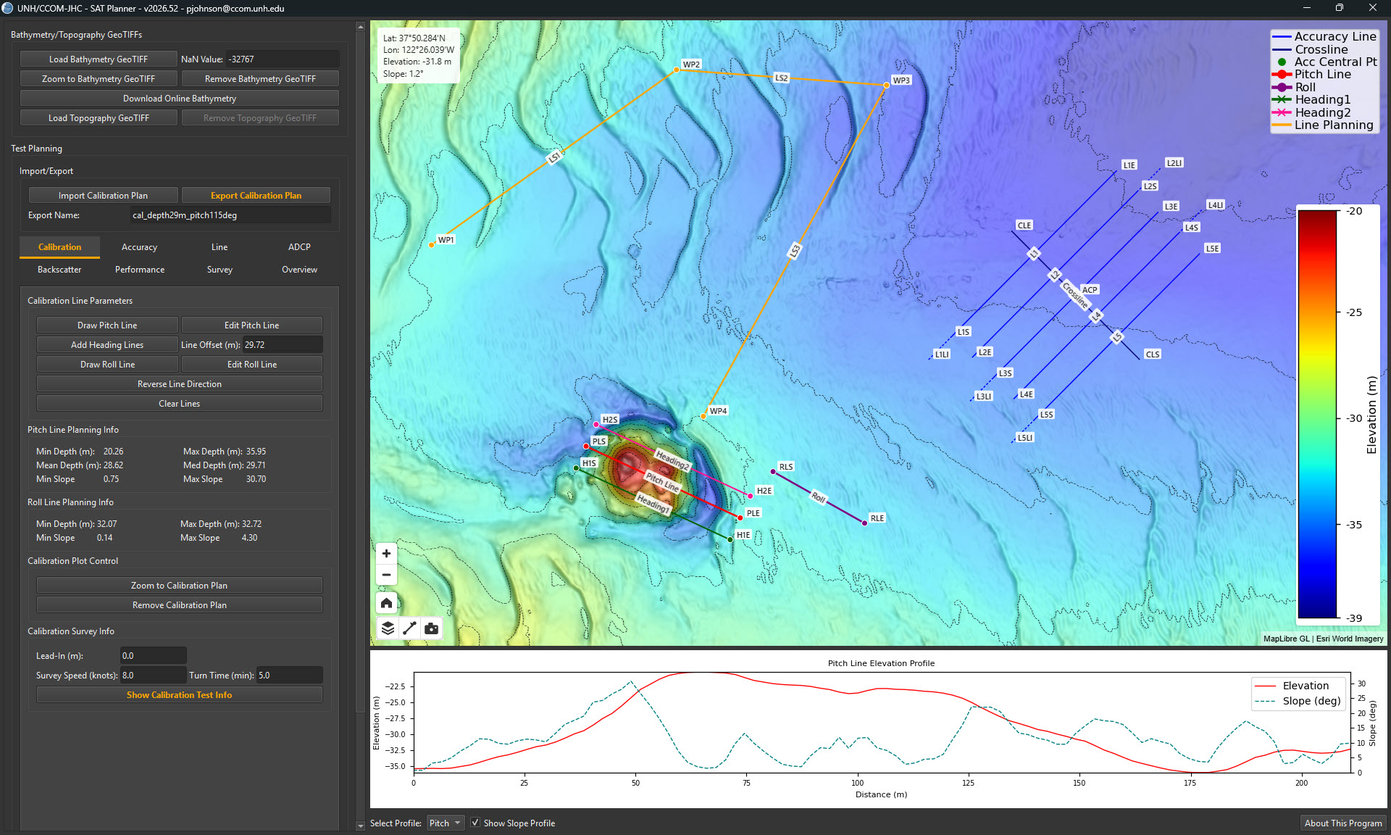
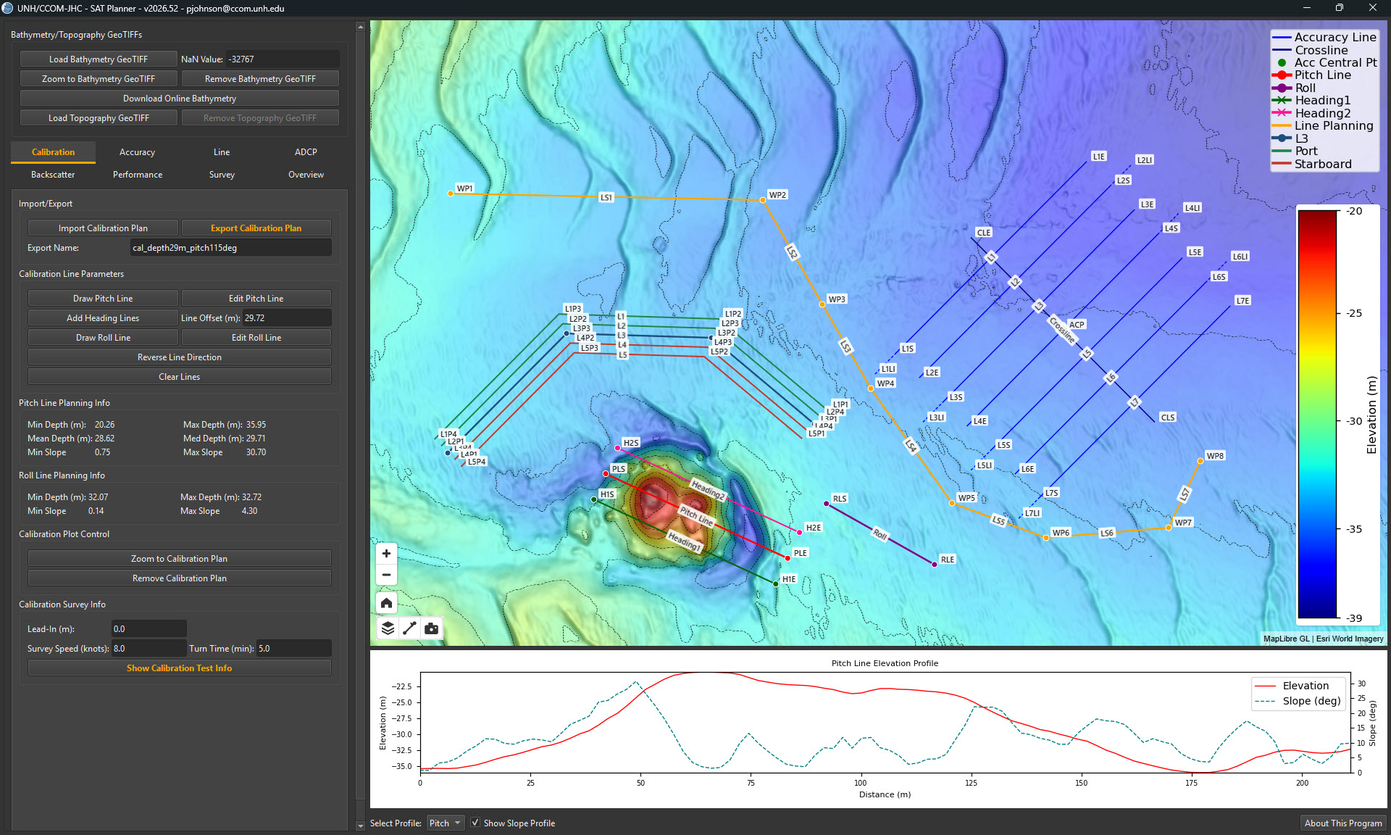
Updated left column layout to be more intuitive.

diff --git a/sat_planner/app_core.py b/sat_planner/app_core.py
@@ -1640,9 +1640,12 @@ class SurveyPlanApp(BasemapMixin, GeoTIFFMixin, PlottingMixin, ReferenceMixin, S
 
         param_layout.addWidget(geotiff_groupbox)
 
-        # --- Test Planning GroupBox (contains tabs) ---
-        test_planning_groupbox = QGroupBox("Test Planning")
-        self._test_planning_layout = QVBoxLayout(test_planning_groupbox)
+        # Tab rows and the open page sit directly in the left column.
+        test_planning = QWidget()
+        test_planning.setSizePolicy(QSizePolicy.Policy.Expanding, QSizePolicy.Policy.Preferred)
+        self._test_planning_layout = QVBoxLayout(test_planning)
+        self._test_planning_layout.setContentsMargins(0, 0, 0, 0)
+        self._test_planning_layout.setSpacing(3)
 
         self.param_notebook = QTabWidget()
 
@@ -1671,7 +1674,7 @@ class SurveyPlanApp(BasemapMixin, GeoTIFFMixin, PlottingMixin, ReferenceMixin, S
 
         self._test_planning_layout.addWidget(self.param_notebook)
         self._install_two_row_tabs()
-        param_layout.addWidget(test_planning_groupbox)
+        param_layout.addWidget(test_planning)
 
         self.param_scroll.setWidget(param_widget)
 
@@ -1680,7 +1683,7 @@ class SurveyPlanApp(BasemapMixin, GeoTIFFMixin, PlottingMixin, ReferenceMixin, S
 
         # --- Reference Planning Tab (was input_frame) ---
         self.input_frame = self.reference_frame  # For compatibility with rest of code
-        ref_layout = QGridLayout(self.input_frame)
+        ref_layout = self._begin_tab_grid(self.input_frame)
         ref_layout.setColumnStretch(0, 1)  # Labels
         ref_layout.setColumnStretch(1, 2)  # Entries
         ref_layout.setSpacing(3)  # Reduce spacing between groupboxes
@@ -1852,7 +1855,7 @@ class SurveyPlanApp(BasemapMixin, GeoTIFFMixin, PlottingMixin, ReferenceMixin, S
         ref_layout.setRowStretch(row, 1)
 
         # --- Calibration Planning Tab ---
-        cal_layout = QGridLayout(self.calibration_frame)
+        cal_layout = self._begin_tab_grid(self.calibration_frame)
         cal_layout.setColumnStretch(0, 1)
         cal_layout.setColumnStretch(1, 2)
         cal_layout.setSpacing(3)  # Reduce spacing between groupboxes
@@ -2073,7 +2076,7 @@ class SurveyPlanApp(BasemapMixin, GeoTIFFMixin, PlottingMixin, ReferenceMixin, S
         cal_layout.setRowStretch(cal_row, 1)
 
         # --- Line Planning Tab ---
-        line_layout = QGridLayout(self.line_planning_frame)
+        line_layout = self._begin_tab_grid(self.line_planning_frame)
         line_layout.setColumnStretch(0, 1)
         line_layout.setColumnStretch(1, 2)
 
@@ -2515,7 +2518,7 @@ class SurveyPlanApp(BasemapMixin, GeoTIFFMixin, PlottingMixin, ReferenceMixin, S
         backscatter_layout.addStretch(1)
 
         # --- Performance Tab ---
-        performance_layout = QGridLayout(self.performance_frame)
+        performance_layout = self._begin_tab_grid(self.performance_frame)
         performance_layout.setColumnStretch(0, 1)
         performance_layout.setColumnStretch(1, 2)
         performance_row = 0
@@ -2680,7 +2683,7 @@ class SurveyPlanApp(BasemapMixin, GeoTIFFMixin, PlottingMixin, ReferenceMixin, S
         performance_layout.setRowStretch(performance_row, 1)
 
         # --- ADCP Tab ---
-        adcp_layout = QGridLayout(self.adcp_frame)
+        adcp_layout = self._begin_tab_grid(self.adcp_frame)
         adcp_layout.setColumnStretch(0, 1)
         adcp_layout.setColumnStretch(1, 2)
         adcp_row = 0
@@ -2871,6 +2874,9 @@ class SurveyPlanApp(BasemapMixin, GeoTIFFMixin, PlottingMixin, ReferenceMixin, S
             self._param_tab_bars.append(tab_bar)
             self._param_tab_bar_indexes.append(mapping)
         self._test_planning_layout.insertWidget(0, header)
+        notebook_index = self._test_planning_layout.indexOf(notebook)
+        if notebook_index >= 0:
+            self._test_planning_layout.setStretch(notebook_index, 1)
         notebook.currentChanged.connect(self._sync_two_row_tabs)
         self._sync_two_row_tabs(notebook.currentIndex())
 

diff --git a/sat_planner/mixins/export_import_mixin.py b/sat_planner/mixins/export_import_mixin.py
@@ -538,8 +538,49 @@ class ExportImportMixin:
             self.shared_export_name_stack, overview_default
         )
 
-    def _install_shared_survey_io(self, parent_layout):
-        """Insert shared Import/Export controls above the tab widget."""
+    def _begin_tab_grid(self, frame):
+        """Put a grid page inside a vertical layout so Import/Export can sit on top."""
+        outer = QVBoxLayout(frame)
+        outer.setContentsMargins(9, 9, 9, 9)
+        outer.setSpacing(3)
+        content = QWidget(frame)
+        grid = QGridLayout(content)
+        grid.setContentsMargins(0, 0, 0, 0)
+        outer.addWidget(content, 1)
+        frame._sat_tab_outer = outer
+        return grid
+
+    def _tab_outer_layout(self, tab_index):
+        notebook = getattr(self, "param_notebook", None)
+        if notebook is None or tab_index is None or tab_index < 0:
+            return None
+        frame = notebook.widget(tab_index)
+        if frame is None:
+            return None
+        outer = getattr(frame, "_sat_tab_outer", None)
+        if isinstance(outer, QVBoxLayout):
+            return outer
+        layout = frame.layout()
+        if isinstance(layout, QVBoxLayout):
+            frame._sat_tab_outer = layout
+            return layout
+        return None
+
+    def _place_shared_survey_io(self, tab_index):
+        """Move the one Import/Export box to the top of the open tab."""
+        group = getattr(self, "shared_survey_io_groupbox", None)
+        outer = self._tab_outer_layout(tab_index)
+        if group is None or outer is None:
+            return
+        if outer.indexOf(group) == 0:
+            return
+        group.setParent(None)
+        outer.insertWidget(0, group)
+        group.show()
+
+    def _install_shared_survey_io(self, parent_layout=None):
+        """Create Import/Export controls and place them on the current tab."""
+        del parent_layout
         if not hasattr(self, "shared_import_btn"):
             self._create_shared_survey_io_widgets()
         if not hasattr(self, "shared_survey_io_groupbox"):
@@ -552,10 +593,8 @@ class ExportImportMixin:
             io_layout.setSpacing(3)
             io_layout.addLayout(self._shared_io_button_row)
             io_layout.addWidget(self.shared_export_name_stack)
-        parent_layout.insertWidget(0, self.shared_survey_io_groupbox)
-        parent_layout.setStretch(0, 0)
-        if parent_layout.count() > 1:
-            parent_layout.setStretch(1, 1)
+        tab_index = self.param_notebook.currentIndex() if hasattr(self, "param_notebook") else 0
+        self._place_shared_survey_io(tab_index)
         self._update_shared_survey_io_ui()
 
     def _setup_shared_survey_io(self, parent_layout):
@@ -696,6 +735,7 @@ class ExportImportMixin:
         if not hasattr(self, "param_notebook") or not hasattr(self, "shared_import_btn"):
             return
         tab_index = self.param_notebook.currentIndex()
+        self._place_shared_survey_io(tab_index)
         group = getattr(self, "shared_survey_io_groupbox", None)
         if group is not None and group.isHidden():
             group.show()

diff --git a/README.md b/README.md
@@ -19,13 +19,13 @@ The SAT/QAT Planner is a desktop application designed for planning and visualizi
 ## Features
 
 ### Core Functionality
-- **Multi-tab Interface**: Calibration, Accuracy, Line, Backscatter, Performance, ADCP, Survey, and Overview tabs (left panel)
-- **Shared Import/Export**: A single **Import/Export** group above the tab notebook; **Import Survey** / **Export Survey** labels and the **Export Name** field follow the active tab. When that tab’s plan is complete, the **Export** label and the tab’s **Show … Info** label turn **orange and bold** (the button face does not change). A plan is complete when every part of that test exists: Calibration = pitch, roll, and both heading lines; Accuracy = survey lines, plus the crossline when crossline passes is greater than 0; Line = a line with at least two points; Backscatter = a centerline; Performance = four swath lines; ADCP = both circles; Survey = a drawn line with at least two vertices; Overview = at least one stop
+- **Multi-tab Interface**: Calibration, Accuracy, Line, and ADCP on the first row; Backscatter, Performance, Survey, and Overview on the second. The rows sit directly under **Bathymetry/Topography GeoTIFFs** (there is no Test Planning frame). The selected tab name is orange and bold, with an orange bar under it
+- **Shared Import/Export**: One **Import/Export** group at the top of the open tab. Changing tabs moves that same group. The button text and the **Export Name** field follow the tab: **Import/Export Calibration Plan**, **Accuracy Plan**, **Line Plan**, **Backscatter Line**, **Performance Plan**, **ADCP Cal**, **Survey**, and **Overview**. When that tab’s plan is complete, the **Export** label and the tab’s **Show … Info** label turn **orange and bold** (the button face does not change). A plan is complete when every part of that test exists: Calibration = pitch, roll, and both heading lines; Accuracy = survey lines, plus the crossline when crossline passes is greater than 0; Line = a line with at least two points; Backscatter = a centerline; Performance = four swath lines; ADCP = both circles; Survey = a drawn line with at least two vertices; Overview = at least one stop
 - **Dark Theme**: Qt GUI always uses a dark theme. The map is a local MapLibre view (bathymetry image, survey lines, imagery, and charts). The profile chart stays matplotlib
-- **Startup Guidance**: The map and profile plots show *Load a Test Plan or Bathymetry to begin planning* until bathymetry or survey geometry is loaded. At startup, **Load Bathymetry GeoTIFF**, **Download Online Bathymetry**, and **Import Survey** are orange and bold until a grid is loaded or a survey plan exists
+- **Startup Guidance**: The map and profile plots show *Load a Test Plan or Bathymetry to begin planning* until bathymetry or survey geometry is loaded. At startup, **Load Bathymetry GeoTIFF**, **Download Online Bathymetry**, and the shared **Import** button are orange and bold until a grid is loaded or a survey plan exists
 - **GeoTIFF Support**: Load and visualize elevation data from GeoTIFF files
 - **Download Online Bathymetry**: **Download Online Bathymetry** in the **Bathymetry/Topography GeoTIFFs** panel opens an interactive dialog (GEBCO 2026, GMRT Topo-Bathy / Observed Only, NCEI multibeam mosaics, WGOM-LI-SNE) with map preview, AOI selection, and GeoTIFF download into the planner
-- **GMRT on Import**: After you **select a survey file**, if the import has **no planning bathymetry** (no `geotiff_path` in metadata, or the saved file is missing), a dialog offers **GMRT download** for the survey area (**Cell Size** 60/120/240/480/960 m matching Download Bathymetry, default **60 m**; buffer; optional Split Topo/Depths). If bathymetry was loaded from the survey, the dialog is skipped. While a download is in flight, **Import Survey** turns orange as **Downloading GMRT - Click to Cancel**; clicking again cancels the worker, removes any partial file, and restores the button
+- **GMRT on Import**: After you **select a survey file**, if the import has **no planning bathymetry** (no `geotiff_path` in metadata, or the saved file is missing), a dialog offers **GMRT download** for the survey area (**Cell Size** 60/120/240/480/960 m matching Download Bathymetry, default **60 m**; buffer; optional Split Topo/Depths). If bathymetry was loaded from the survey, the dialog is skipped. While a download is in flight, the **Import** button turns orange as **Downloading GMRT - Click to Cancel**; clicking again cancels the worker, removes any partial file, and restores the button
 - **Map Options** (icon, lower-left of the map): Non-modal dialog. **Map Overlay Options** holds Imagery Basemap, NOAA ENC + opacity, EEZs + opacity, Add/Remove Shapefile, then **Legend**, **Point Label** (on by default), and **Line Label** (off by default; names are drawn along each line). **GeoTIFF Overlay Options** holds **Map Display**, **Color Map**, **Bathymetry** (on by default; the colorbar is hidden while it is off), **Topography**, **Colorbar**, Vertical Exaggeration, Dyn Res, Contours, **High Res Display** (on by default; sharper on-screen contours), and multi-range Slopes. On the **Overview** tab the same GeoTIFF controls stay available and the planning grid is drawn under the overview. Point Label and Line Label are hidden there. Switching tabs while the dialog is open places it above the map button again. The icon is orange while the dialog is open and white when it is closed. Qt overlay icons are not included in exported map PNGs
 - **Home** (house icon above the map **+** / **−** buttons): Zooms to the current tab’s survey, or to every stop and transit when Overview is current
 - **Measurement Tool** (icon to the right of Map Options): Toggle distance/heading measure mode; orange thick `+` cursor while active; bottom-strip prompt explains how to deactivate. The icon is orange while measuring and white when idle
@@ -36,7 +36,7 @@ The SAT/QAT Planner is a desktop application designed for planning and visualizi
 - **Export Capabilities**: Export survey plans in CSV, Shapefile, GeoJSON, GeoPackage, asciiplan, LNW, KML, GPX, PNG (high and/or low resolution), and companion text/statistics formats (varies by tab)
 - **Export Name**: Suggested basenames update automatically when blank or still matching the auto-generated pattern; **custom Export Names are preserved** and are not overwritten on Enter/blur or when plan parameters regenerate (Accuracy, Performance, Calibration, ADCP, Backscatter)
 - **Export Types**: Opened from the **Select Export Directory** dialog (Action button); toggle optional export products by format; choices are saved in `~/.cal_ref_planner_config.json` under `export_type_options`
-- **Survey Import**: Use the shared **Import Survey** control (label follows the active tab). Import calibration, accuracy, performance, line, backscatter, ADCP, and mapping-survey plans from DDD, DMS, DMM, LNW, CSV, GeoJSON, GPX, shapefile (`.shp`), or GeoPackage (`.gpkg`) (calibration, accuracy, and performance imports use an assignment dialog when geometry is ambiguous; shapefile/GPKG geometry is reprojected from its source CRS to WGS84 automatically). **Import Overview** reads an overview `{name}.json`. **GMRT bathymetry** is offered **after** file selection when no planning GeoTIFF is available (if a grid is already loaded, choose **Keep existing grid** or **Download new GMRT grid**). The prompt lets you choose **Cell Size (m)** (same GMRT presets as Download Bathymetry: 60/120/240/480/960, default **60**), a **Degrees** buffer (fixed box around survey center) or **Percent of survey** buffer (expand the visible map-frame bounds; default **20%**); cell size, buffer mode, and amounts are remembered in `gmrt_import_options`
+- **Survey Import**: Use the **Import** button at the top of the open tab (its label follows that tab). Import calibration, accuracy, performance, line, backscatter, ADCP, and mapping-survey plans from DDD, DMS, DMM, LNW, CSV, GeoJSON, GPX, shapefile (`.shp`), or GeoPackage (`.gpkg`) (calibration, accuracy, and performance imports use an assignment dialog when geometry is ambiguous; shapefile/GPKG geometry is reprojected from its source CRS to WGS84 automatically). **Import Overview** reads an overview `{name}.json`. **GMRT bathymetry** is offered **after** file selection when no planning GeoTIFF is available (if a grid is already loaded, choose **Keep existing grid** or **Download new GMRT grid**). The prompt lets you choose **Cell Size (m)** (same GMRT presets as Download Bathymetry: 60/120/240/480/960, default **60**), a **Degrees** buffer (fixed box around survey center) or **Percent of survey** buffer (expand the visible map-frame bounds; default **20%**); cell size, buffer mode, and amounts are remembered in `gmrt_import_options`
 - **EEZ Overlay**: EEZ layer with opacity control (default 80%) and hover `GEONAME` tooltip lookup (controls in Map Options)
 - **Visualization Shapefile Toggle**: `Add Shapefile` / `Remove Shapefile` in Map Options after loading, allowing quick removal of visualization overlays
 
@@ -67,8 +67,9 @@ The SAT/QAT Planner is a desktop application designed for planning and visualizi
 - Generate parallel survey lines with customizable parameters
 - Auto-regenerate plans when parameters change (with debounce)
 - Configure line length, spacing, heading, speed, and turn time
+- **Main Line Lead-In (m)** (default `0`) adds that distance before the start of each main line, in the direction the line is run. `0` leaves the lines unchanged. A larger value is drawn dashed, in the same blue as the main line, and labeled `L1LI`, `L2LI`, …. The main lines stay **solid blue**. The crossline stays **solid navy**. Line time, transits, **Accuracy Survey Info**, `*_info.txt`, and the exported plan include the lead-in. The value is saved as **`main_line_lead_in_m`** and restored on import. The elevation profile stays on the main line itself
 - Import accuracy surveys (DDD/DMS/DMM/LNW, CSV, GeoJSON, Shapefile `.shp`, GeoPackage `.gpkg`); **suggested crossline and reference line order** (crossline by orientation, reference lines in file order); **GMRT download offered after import** when no planning GeoTIFF is present
-- **Accuracy Survey Info** dialog and *_info.txt with **Survey Plan** and **Export Date**, crossline depth/slope extrema (minimum/maximum depth and slope from the full crossline profile), and **Accuracy Waypoints (DMM)** / **Accuracy Waypoints (DDD)** sections (L1S/L1E, L2S/L2E, …, CLS/CLE)
+- **Accuracy Survey Info** dialog and *_info.txt with **Survey Plan** and **Export Date**, **Main Line Lead-In**, crossline depth/slope extrema (minimum/maximum depth and slope from the full crossline profile), and **Accuracy Waypoints (DMM)** / **Accuracy Waypoints (DDD)** sections (`L1LI` when lead-in is set, then L1S/L1E, L2S/L2E, …, CLS/CLE)
 - `*_info.txt` for Accuracy now uses the same base text content as **Accuracy Survey Info** (with export-only degree-symbol normalization)
 - Calculate comprehensive survey statistics with time breakdowns
 - Survey time breakdown showing main lines, crossline, transit, and turn times
@@ -117,9 +118,9 @@ The SAT/QAT Planner is a desktop application designed for planning and visualizi
 
 ### Survey Planning
 - **Survey** tab (**Mapping Survey**): draw a line, reshape it, then add parallel offset lines. **Draw Line** uses left-click to add vertices and right-click to finish. **Move Vertices** drags the drawn line (red start, green middle, blue end). **Reverse Direction** swaps the start and end, and port and starboard swap with them
-- **Spacing**, **Lines**, and **Side** (Port, Starboard, or Both; default Both, 100 m, one line per side) control the offsets. **Add Offset Lines** builds them from the drawn line. Port is green, to the left of the line direction. Starboard is red, to the right. The drawn line stays solid. Changing the spacing, count, or side rebuilds offsets that have already been added. **Clear Offset Lines** removes them and keeps the drawn line
+- **Spacing**, **Lines**, **Lead-In**, and **Side** (Port, Starboard, or Both; default Both, 100 m, one line per side, lead-in `0`) control the offsets. **Add Offset Lines** builds them from the drawn line. Port is green, to the left of the line direction. Starboard is red, to the right. The drawn line, the port lines, and the starboard lines are all **solid**. **Lead-In (m)** adds that distance before the start of every survey line, in the direction that line is run. The added part is **dashed**, in the line’s color, and labeled `L1LI`, `L2LI`, …. A mask cuts off any lead-in that would fall outside it. Line time, transits, **Show Survey Info**, `*_info.txt`, and the exported plan include the lead-in that remains. The value is saved as **`lead_in_m`**. The elevation profile stays on the line vertices. Changing the spacing, count, or side rebuilds offsets that have already been added. **Clear Offset Lines** removes them and keeps the drawn line. The map legend lists **Port** once and **Starboard** once; the drawn line keeps its own name. Opening the Survey tab leaves the current map zoom alone
 - **Select Beginning** asks for a click on an end of an outside line. That point becomes line 1, point 1. Lines are then numbered in a sinuous order (L1, L2, …). Points are `L` + line number + `P` + point number, as in **L1P1**. Until a beginning is chosen, offset lines are drawn without those names. Export and **Show Survey Info** wait for that choice when offset lines exist. The drawn line is kept as the source of the pattern; later edits rebuild the offsets from it
-- **Survey Info** on the tab shows the shallowest depth, maximum depth, minimum slope, and maximum slope across every survey line, plus **Survey Speed** (default 8 knots). **Show Survey Info** and `{name}_info.txt` report the full survey: each line, the transits between lines, the total time, and every point in run order. With a mask, those figures follow the clipped lines
+- **Survey Info** on the tab shows the shallowest depth, maximum depth, minimum slope, and maximum slope across every survey line, plus **Survey Speed** (default 8 knots). **Show Survey Info** and `{name}_info.txt` report the full survey: lead-in, each line, the transits between lines, the total time, and every point in run order (`L1LI` before `L1P1` when lead-in is set). With a mask, those figures follow the clipped lines
 - **Draw Mask** draws a polygon on the map (left-click corners, right-click to close, at least three corners). Survey lines that extend outside the polygon are clipped. The drawn line is not replaced, so **Remove Mask** shows the original lines again. **Clear Survey** clears the line, the offsets, and the mask. Leaving the Survey tab closes a draft that already has three corners
 - When a line crosses the polygon more than once, the longest piece keeps the line number. Shorter pieces stay on the map in the same color and are written to the GeoJSON, shapefile, and GeoPackage under that same name. They are left out of the text files, the SIS ASCIIplan, the Hypack plan, and the info report
 - The mask is stored as **`mask_latlon`** on the GeoJSON collection and in `{name}_params.json`, and as a polygon feature (`name` **mask**, `role` **mask**). Import restores it and clips the lines again. The original drawn line is **`centerline_latlon`**. Export also writes `{name}_mask.shp` when the shapefile type is on, and a GeoPackage layer named **mask**. The polygon is not written to the SIS ASCIIplan or the Hypack plan, and it is not described in **Show Survey Info** or `{name}_info.txt`
@@ -163,11 +164,11 @@ The SAT/QAT Planner is a desktop application designed for planning and visualizi
 ### GeoJSON metadata (and sidecar JSON)
 - **All survey `*_params.json` sidecars** (Calibration, Accuracy, Line, Backscatter, Performance, ADCP as applicable) may include **`vert_exag_table`**, **`shaded_relief_cmap`**, **`slope_overlay_bands`**, and **`slope_overlay_opacity`** so hillshade V.E., Shaded Relief colormap, and slope-overlay settings travel with the survey on export/import. When a topography GeoTIFF is loaded, they also include **`topography_geotiff_path`**.
 - **Calibration**: GeoJSON holds line geometry and `line_num` / `line_name` only. The FeatureCollection **`properties`** may include **`geotiff_path`** so a saved raster can be reopened on import. **Survey speed**, **turn time (min)**, **lead-in (m)**, **heading line offset**, and **export name** live in **`{export_name}_params.json`** next to the GeoJSON (not in the `.geojson`). On import, that sidecar is optional; if it is absent, the app uses defaults and may repopulate the heading offset from the pitch line after load.
-- **Accuracy**: GeoJSON exports include **`survey_speed`**; saved raster path is stored in **`{export_name}_params.json`** as **`geotiff_path`**.
+- **Accuracy**: GeoJSON exports include **`survey_speed`**; saved raster path is stored in **`{export_name}_params.json`** as **`geotiff_path`**. **`main_line_lead_in_m`** is the main-line lead-in (default 0). Exported main-line geometry starts at the lead-in point when that value is greater than 0.
 - **Line** GeoJSON exports can include **`survey_speed`** and **`geotiff_path`** (collection and/or feature properties as applicable).
 - **Backscatter** exports include line GeoJSON and optional normalization area polygon GeoJSON (`{name}_area.geojson`) plus `{name}_params.json` with backscatter planning and filter settings; import restores these when present.
 - **Performance** GeoJSON uses feature properties such as **`line_num`** (1–4 for swath legs, 11–14 for BIST extensions where applicable) and may include speed-related keys; full test parameters are also in **`{name}_performance_params.json`** (including **`swell_direction_deg`**, restored on import when the sidecar is present).
-- **Survey** GeoJSON and `{name}_params.json` store the original drawn line as **`centerline_latlon`**, the offset spacing, count, side, whether offsets were added, and the chosen start (`start_edge`, `start_vertex`). A mask is **`mask_latlon`** plus a polygon feature with `role` **mask**. Import prefers `centerline_latlon` over the clipped line geometry, then applies the mask again.
+- **Survey** GeoJSON and `{name}_params.json` store the original drawn line as **`centerline_latlon`**, the offset spacing, count, side, whether offsets were added, **`lead_in_m`**, and the chosen start (`start_edge`, `start_vertex`). A mask is **`mask_latlon`** plus a polygon feature with `role` **mask**. Import prefers `centerline_latlon` over the clipped line geometry, then applies the mask and the lead-in again. Exported line geometry starts at the lead-in point when **`lead_in_m`** is greater than 0.
 - Whenever a saved **GeoTIFF** path is present in the imported files, SAT Planner tries to open it; if the file is missing, import continues with a warning.
 
 ## Requirements
@@ -234,7 +235,7 @@ The application is organized as a package plus a launcher:
 ### Option 1: Using Pre-built Executable
 
 Download the latest executable from the [Releases](https://github.com/seamapper/SAT_Planner/releases) page:
-- `SAT_Planner_v2026.50.exe` (Windows) or newer — version is in the filename (see `sat_planner/constants.py`).
+- `SAT_Planner_v2026.52.exe` (Windows) or newer — version is in the filename (see `sat_planner/constants.py`).
 - `SAT_Planner.app` (macOS) — if available
 
 No installation required - just run the executable or app bundle.
@@ -302,9 +303,9 @@ Use `.icns` for the app icon (convert `media/CCOM.ico` with `sips -s format icns
 3. **Map overlays / measure / picture** (optional): Use **Map Options** for Imagery Basemap, NOAA ENC, EEZs, and shapefiles; use the **Measurement** icon for distance/heading; use the **Camera** icon to save or copy the current map
 4. **Select Planning Mode**: Choose Calibration, Accuracy, Line, Backscatter, Performance, ADCP, Survey, or Overview
 5. **Configure Parameters**: Set survey parameters in the appropriate tab
-6. **Generate/Plan** or **Import Survey**: Create survey lines from parameters, draw interactively, or use the shared **Import Survey** button (label follows the active tab). If the imported survey has no planning GeoTIFF, you will be prompted to download GMRT for the survey area.
+6. **Generate/Plan** or **Import**: Create survey lines from parameters, draw interactively, or use the **Import** button at the top of the open tab. If the imported survey has no planning GeoTIFF, you will be prompted to download GMRT for the survey area.
 7. **View Statistics / test info**: Open the tab’s survey-info dialog (Calibration, Accuracy, Performance, Line, Backscatter, ADCP, or Survey)
-8. **Export**: Use **Export Survey**; in **Select Export Directory**, use **Export Types** if you want to limit optional formats (shapefile, GeoPackage, text, Hypack, KML, GPX, PNG resolutions, etc.)
+8. **Export**: Use the **Export** button at the top of the open tab; in **Select Export Directory**, use **Export Types** if you want to limit optional formats (shapefile, GeoPackage, text, Hypack, KML, GPX, PNG resolutions, etc.)
 
 ### Calibration Survey Planning
 
@@ -325,6 +326,7 @@ Use `.icns` for the app icon (convert `media/CCOM.ico` with `sips -s format icns
    - Line Length
    - Heading
    - Distance Between Lines
+   - Main Line Lead-In (m) — default `0`
    - Survey Speed
    - Turn Time (min) - default: 5 minutes
 3. The plan auto-regenerates as you change parameters
@@ -336,7 +338,7 @@ Use `.icns` for the app icon (convert `media/CCOM.ico` with `sips -s format icns
 1. Load a GeoTIFF (needed for plotting and for depth at pick).
 2. Open the **Performance** tab; set **Swell Direction** (default 0°) and other test parameters (speed, pings, BIST time, etc.).
 3. Use **Pick Center from GeoTIFF** and click the map, or enter central latitude/longitude manually. With valid depth/speed/pings, the plan may **auto-plot**; otherwise click **Plot Performance Lines**.
-4. Use **Show Performance Test Info** for a written pattern, distances, and times; use the shared **Import Survey** / **Export Survey** controls to share plans in the same family of formats as Accuracy.
+4. Use **Show Performance Test Info** for a written pattern, distances, and times; use **Import Performance Plan** / **Export Performance Plan** to share plans in the same family of formats as Accuracy.
 
 ### Line Planning
 
@@ -355,20 +357,20 @@ Use `.icns` for the app icon (convert `media/CCOM.ico` with `sips -s format icns
 3. In **Backscatter Line Planning**, define the normalization centerline/area and line settings (lead-in, speed, swath angle, sound velocity).
 4. Use **Show Area Stats** and **Survey Info** to review calculated metrics and waypoints (`BS1LI`, `BS1S`, `BS1E`, `BS1LO`).
 5. Adjust **Box Width (m)** or use **Edit Area Width** / **Move Waypoints** as needed.
-6. Use **Import Survey** / **Export Survey** (Backscatter labels when that tab is active) to share geometry, settings, and reports (optional products follow **Export Types**).
+6. Use **Import Backscatter Line** / **Export Backscatter Line** to share geometry, settings, and reports (optional products follow **Export Types**).
 
 ### ADCP Calibration Planning
 
 1. Load bathymetry (recommended).
 2. Open the **ADCP** tab; set circle diameter, survey speed, turn time, and related parameters.
 3. Pick **Circle 1 Center**, then follow the orange bold label: **Pick Circle 1 Start**, **Pick Circle 2 Center**, then **Pick Circle 2 Start**. Use **Zoom to ADCP Cal** and **Show ADCP Cal Info** as needed.
-4. Use **Import Survey** / **Export Survey** to share geometry and `{name}_adcp_params.json` metadata.
+4. Use **Import ADCP Cal** / **Export ADCP Cal** to share geometry and `{name}_adcp_params.json` metadata.
 
 ### Survey Planning
 
 1. Open the **Survey** tab and load bathymetry (recommended).
 2. Click **Draw Line**. Left-click vertices and right-click to finish. Use **Move Vertices** or **Reverse Direction** until the line is where you want it.
-3. Set **Spacing**, **Lines**, and **Side**, then click **Add Offset Lines**.
+3. Set **Spacing**, **Lines**, **Lead-In** (default `0`), and **Side**, then click **Add Offset Lines**.
 4. Click **Select Beginning**, then click an end of an outside line. That point becomes L1P1, and the other lines are numbered in a sinuous order.
 5. Optional: click **Draw Mask**, left-click the polygon corners, and right-click to close it. Lines outside the polygon are clipped. **Remove Mask** restores the original lines.
 6. Use **Show Survey Info** for the full run, including line time, transit time, and every point. The tab’s **Survey Info** group shows depth and slope extremes across those lines.
@@ -536,6 +538,7 @@ The application will run with limited functionality if geospatial libraries aren
 
 ## Version History
 
+- **v2026.52**: **Import/Export** sits at the top of the open tab and moves with the tab. Button labels are **Calibration Plan**, **Accuracy Plan**, **Line Plan**, **Backscatter Line**, **Performance Plan**, **ADCP Cal**, **Survey**, and **Overview**. The Test Planning frame is removed, so the tab rows sit directly under the GeoTIFF panel; the selected tab name is orange with an orange bar. Accuracy **Main Line Lead-In (m)** defaults to 0 (`main_line_lead_in_m`); the extra segment is dashed blue (`L1LI`, …) and is included in time and export. Accuracy main lines are solid blue and the crossline is solid navy. Survey **Lead-In** defaults to 0 (`lead_in_m`); the extra segment is dashed in the line color (`L1LI`, …), is clipped by a mask, and is included in time and export. Port and starboard survey lines are solid, and the legend lists **Port** once and **Starboard** once. Opening Survey no longer changes the map zoom.
 - **v2026.50**: **Overview** tab for ordering finished test plans and points, with transits, an editable activity table (extra time, transit speed, point name, start and end clocks), and a schedule. Clocks are saved as minute offsets from the overview start. **Import Overview** / **Export Overview** use the shared Import/Export group and **Export Types**; the default name is `Overview_YYYYMMDD_HHMMSS`. `{name}.json` and `{name}_info.txt` are always written. The overview map fills the right side and draws the planning bathymetry and topography under the operation; pan and zoom refresh that grid, and Map Options keeps the GeoTIFF controls. **Home** sits above the zoom buttons and fits the current survey or the overview. Map Options puts **Legend**, **Point Label**, and **Line Label** under Add Shapefile; on Overview the point and line labels are hidden. Switching tabs while the dialog is open places it again. Survey **GeoPackage** export defaults on. New line plans write **Total Time**; older **Estimated Time** files still load. **Survey** tab draws a line, adds port and starboard offsets, numbers lines from a clicked start (L1P1, …), and can clip that pattern with **Draw Mask** / **Remove Mask**. The original line and `mask_latlon` are stored in the GeoJSON; export adds `{name}_mask.shp` and a GeoPackage `mask` layer. **KML** is an Export Types option under Hypack and defaults on. Map PNG export draws the on-screen imagery and NOAA charts; the low-resolution map PNG is the same page at 100 dpi. **Select Profile**, **Show Slope Profile**, and **About This Program** share one line. The main-window activity log is removed.
 - **v2026.46**: The main map is a local **MapLibre** view (drag to pan, scroll to zoom). Bathymetry, contours, and slope bands are one image from Python; survey lines stay vectors. **Map Options**, **Measurement**, and **Camera** icons sit at the lower left (orange when active, white when idle). The camera saves a PNG or copies the picture. **Select Profile** is under the profile on the left. Moving across the profile tracks that distance on the map and on the elevation and slope curves, and fills the map tooltip. Line-survey segments can be labeled **LS1**, **LS2**, …. **High Res Display**, **Point Label**, and **Line Label** are in Map Options and are remembered. The one-file Windows exe starts Qt WebEngine from `pyi_rth_geospatial_dll.py` so the window opens.
 - **v2026.45**: **Bathymetry/Topography GeoTIFFs** panel (**Load / Zoom to / Remove Bathymetry GeoTIFF**, **Load Topography GeoTIFF**, **Remove Topography GeoTIFF**). Land is a gray hillshade underlay under imagery and bathymetry; its path is stored as **`topography_geotiff_path`** and reloaded on import. **Map Display** (in Map Options) adds **EM712 / EM304 / EM124 Depth Modes** (hillshade plus named mode colors; color bar runs shallow-to-deep from top to bottom; hover shows **Depth Mode**). When a test plan is complete, the **Export** label and that tab’s **Show … Info** label turn orange and bold. ADCP pick buttons highlight the next step’s label (Circle 1 Start, Circle 2 Center, Circle 2 Start) in orange bold text.
